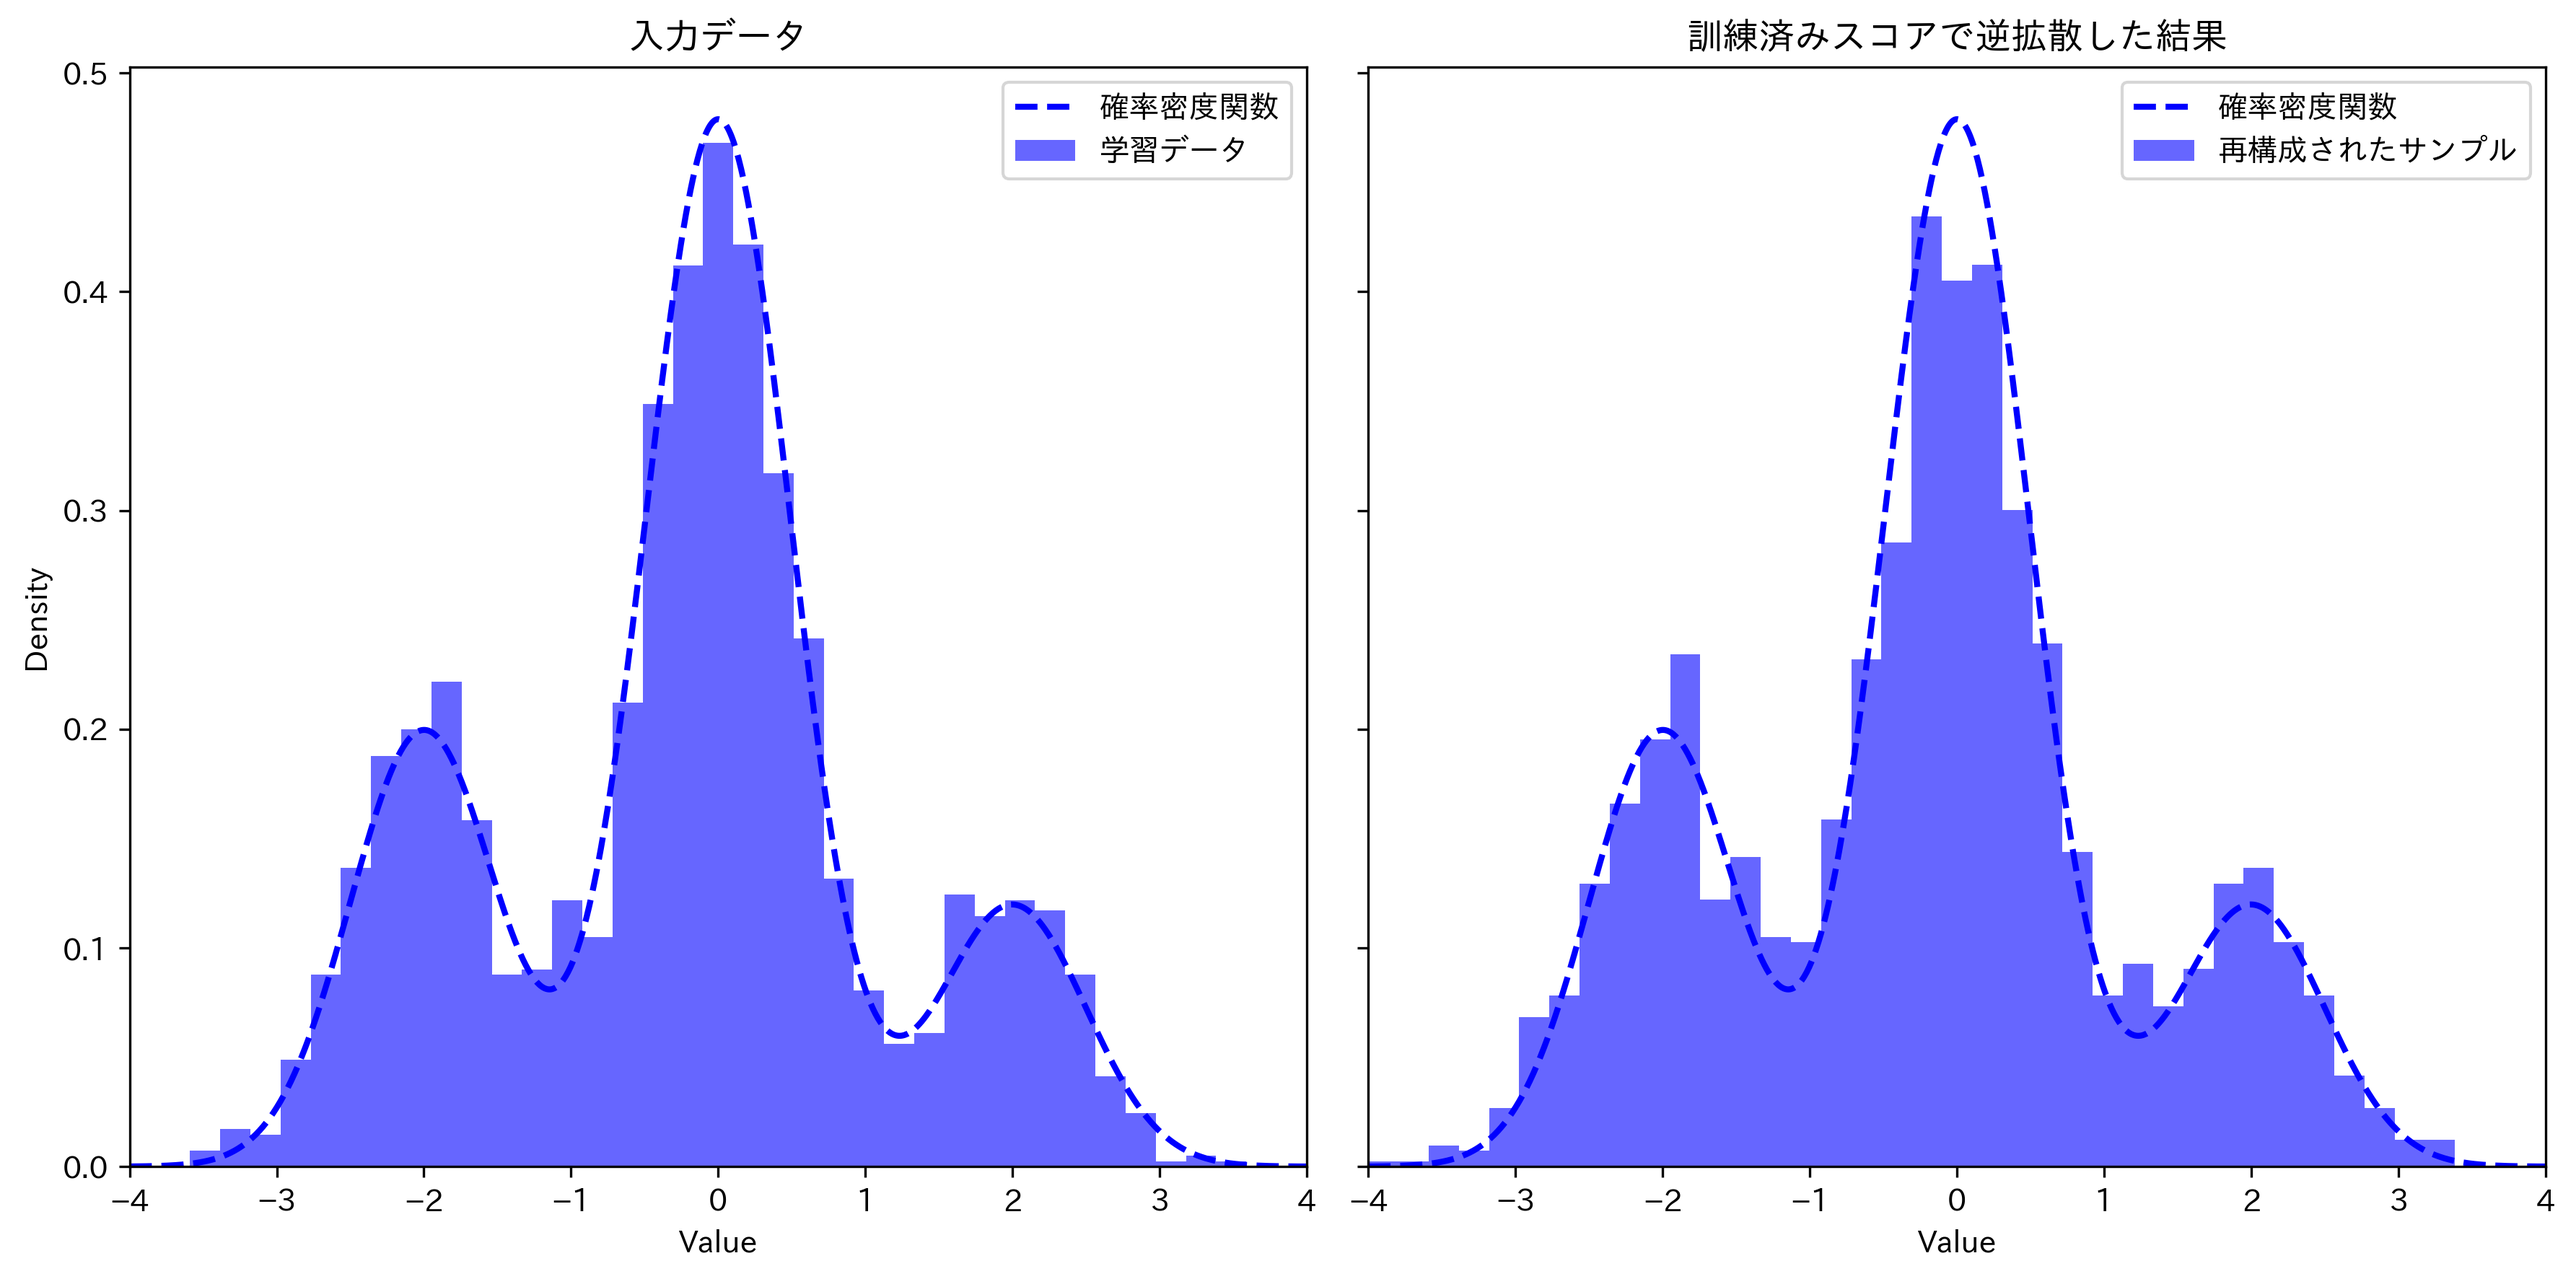
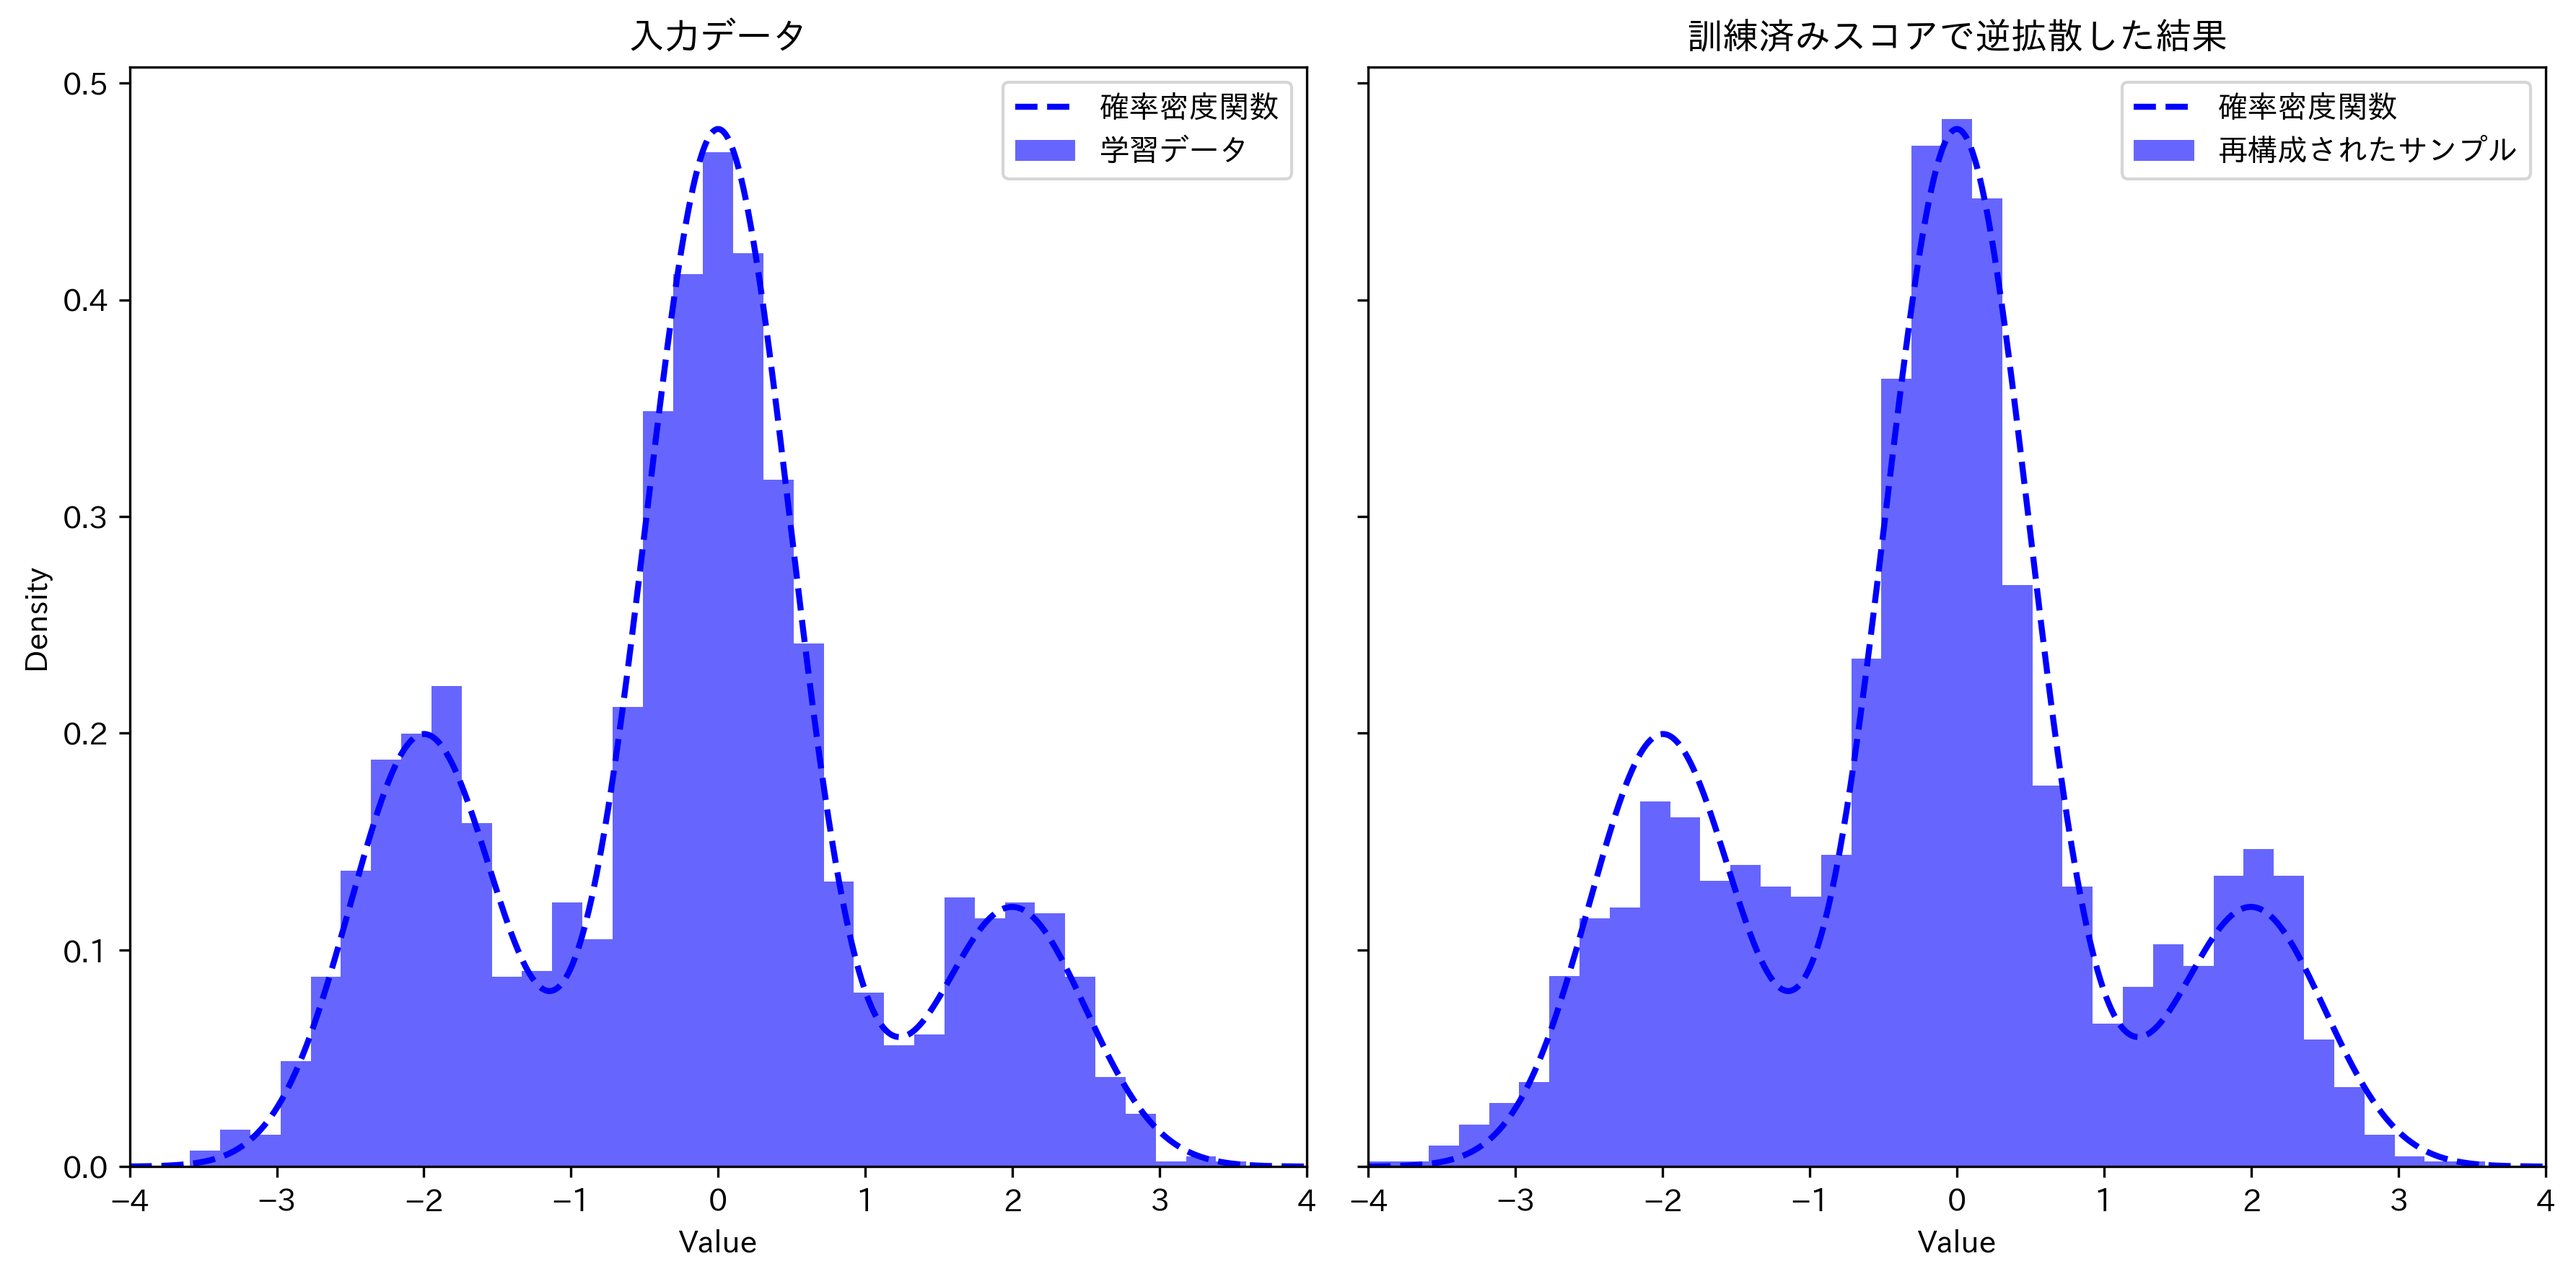
wip

diff --git a/a_dsm_1d.py b/a_dsm_1d.py
@@ -60,7 +60,7 @@ weight = tf.constant([0.25, 0.6, 0.15], dtype=tf.float32)
 input_samples = mixed_gaussian(mu_lst, sigma_lst, weight)(n_input_samples)
 
 # 拡散過程のパラメータ
-beta_lst = tf.linspace(0.01, 0.1, 100).numpy()  # numpy配列に変換
+beta_lst = tf.linspace(0.01, 0.1, 1000).numpy()  # numpy配列に変換
 alpha_lst = 1 - beta_lst
 alpha_cumprod = np.cumprod(alpha_lst)
 T = beta_lst.shape[0]
@@ -105,9 +105,19 @@ def train_step(
         optimizer.apply_gradients(zip(gradients, score_model.trainable_variables))
 
 
-for epoch in tqdm(range(5000), desc="Training"):
-    idx = tf.random.uniform([n_input_samples], minval=0, maxval=T, dtype=tf.int32)
-    train_step(score_model, input_samples, idx, T)
+batch_size = 128
+n_epochs = 50000
+for epoch in tqdm(range(n_epochs), desc="Training"):
+    sample_idx = tf.random.uniform(
+        [batch_size], minval=0, maxval=n_input_samples, dtype=tf.int32
+    )
+    input_samples_batch = tf.gather(input_samples, sample_idx)
+    train_step(
+        score_model,
+        input_samples_batch,
+        tf.random.uniform([batch_size], 0, T, dtype=tf.int32),
+        T,
+    )
 
 
 # モデルの保存
